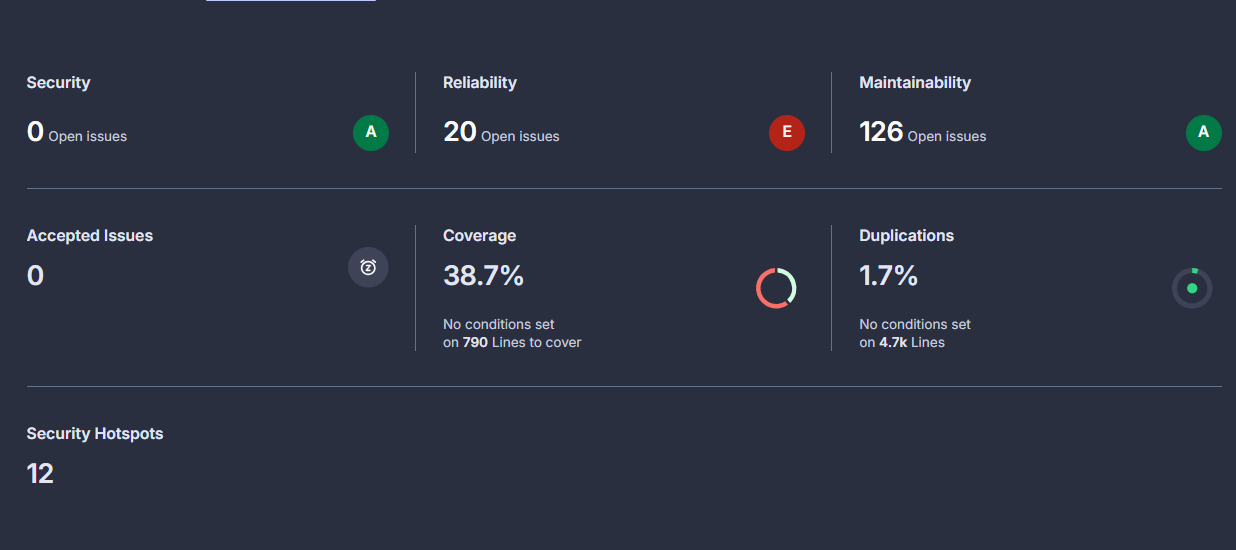
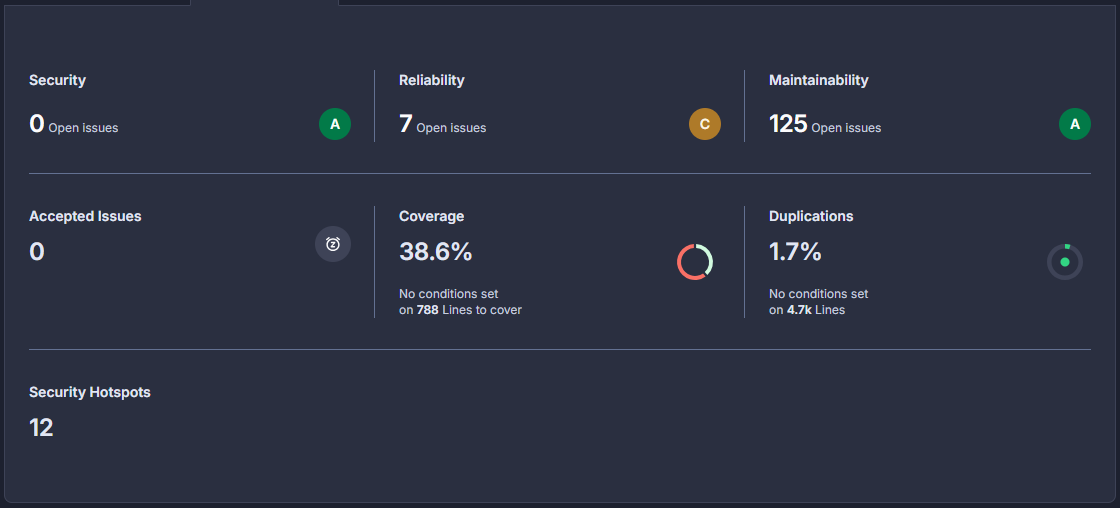
📝 Maj capture sonar cloud + sprint2.md

diff --git a/Sprints/Sprint2/sprint2.md b/Sprints/Sprint2/sprint2.md
@@ -2,11 +2,11 @@
 
 ## Indicateurs
 
-| Indicateur                        | Début de sprint | Fin de sprint | Évolution |
-|-----------------------------------|-----------------|---------------|-----------|
-| Nombre de tests                   | 83              | 88            | +5        |
-| Couverture de code (%)            | 33.4%           | 38.7%         | +5.3%     |
-| Nombre d'issues (bugs/problèmes)  | 141             | 146           | +5 (-2+7) |
+| Indicateur                        | Début de sprint | Fin de sprint |  Évolution  |
+|-----------------------------------|-----------------|---------------|-------------|
+| Nombre de tests                   |       83        |      88       |     +5      |
+| Couverture de code (%)            |      33.4%      |     38.6%     |    +5.2%    |
+| Nombre d'issues (bugs/problèmes)  |       141       |      132      |  -9 (-16+7) |
 
 ## Captures d'écran
 
